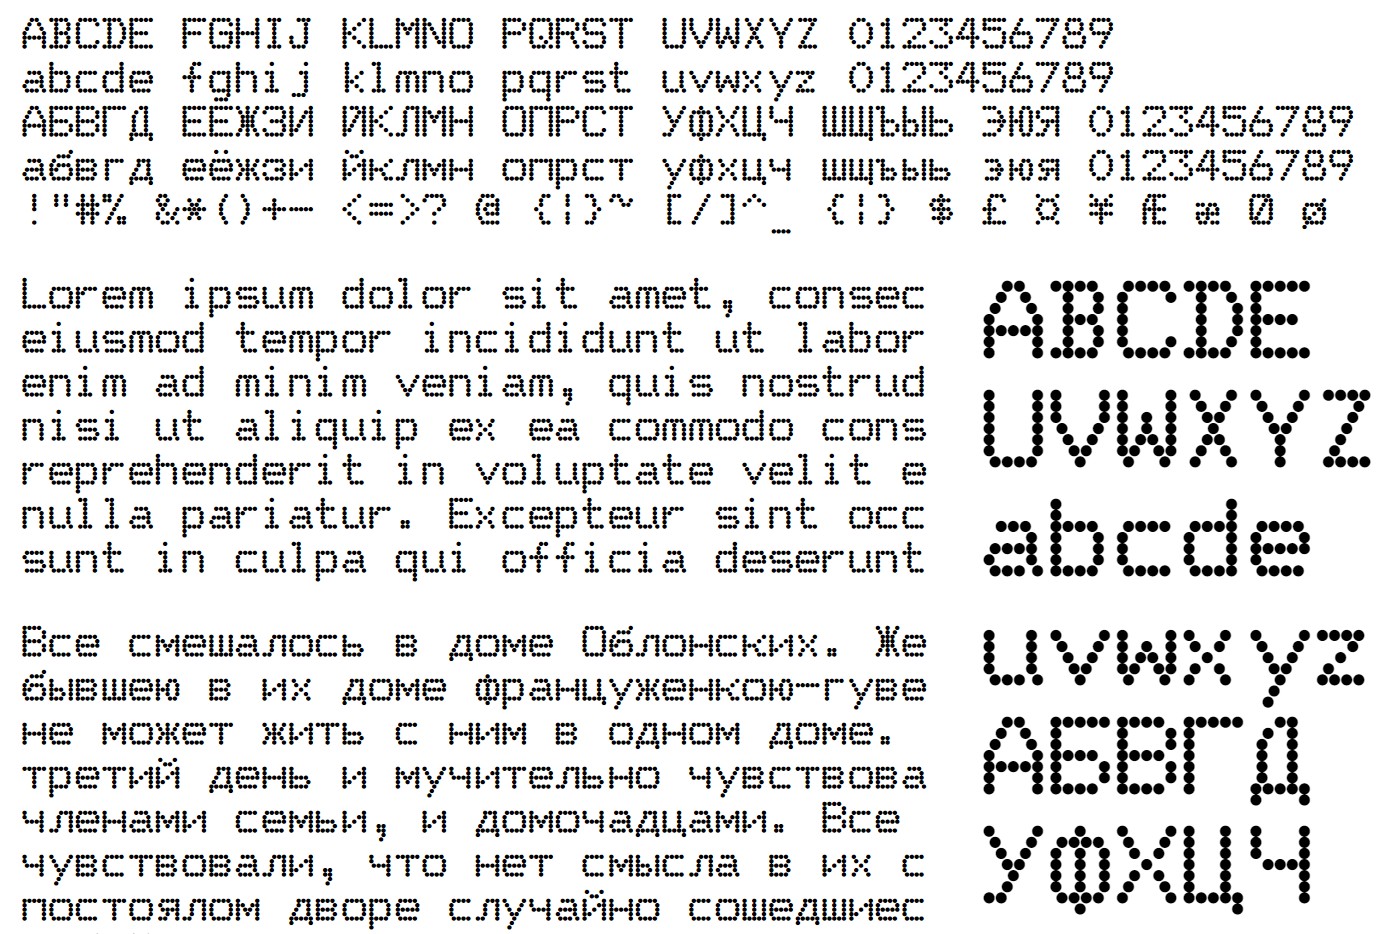
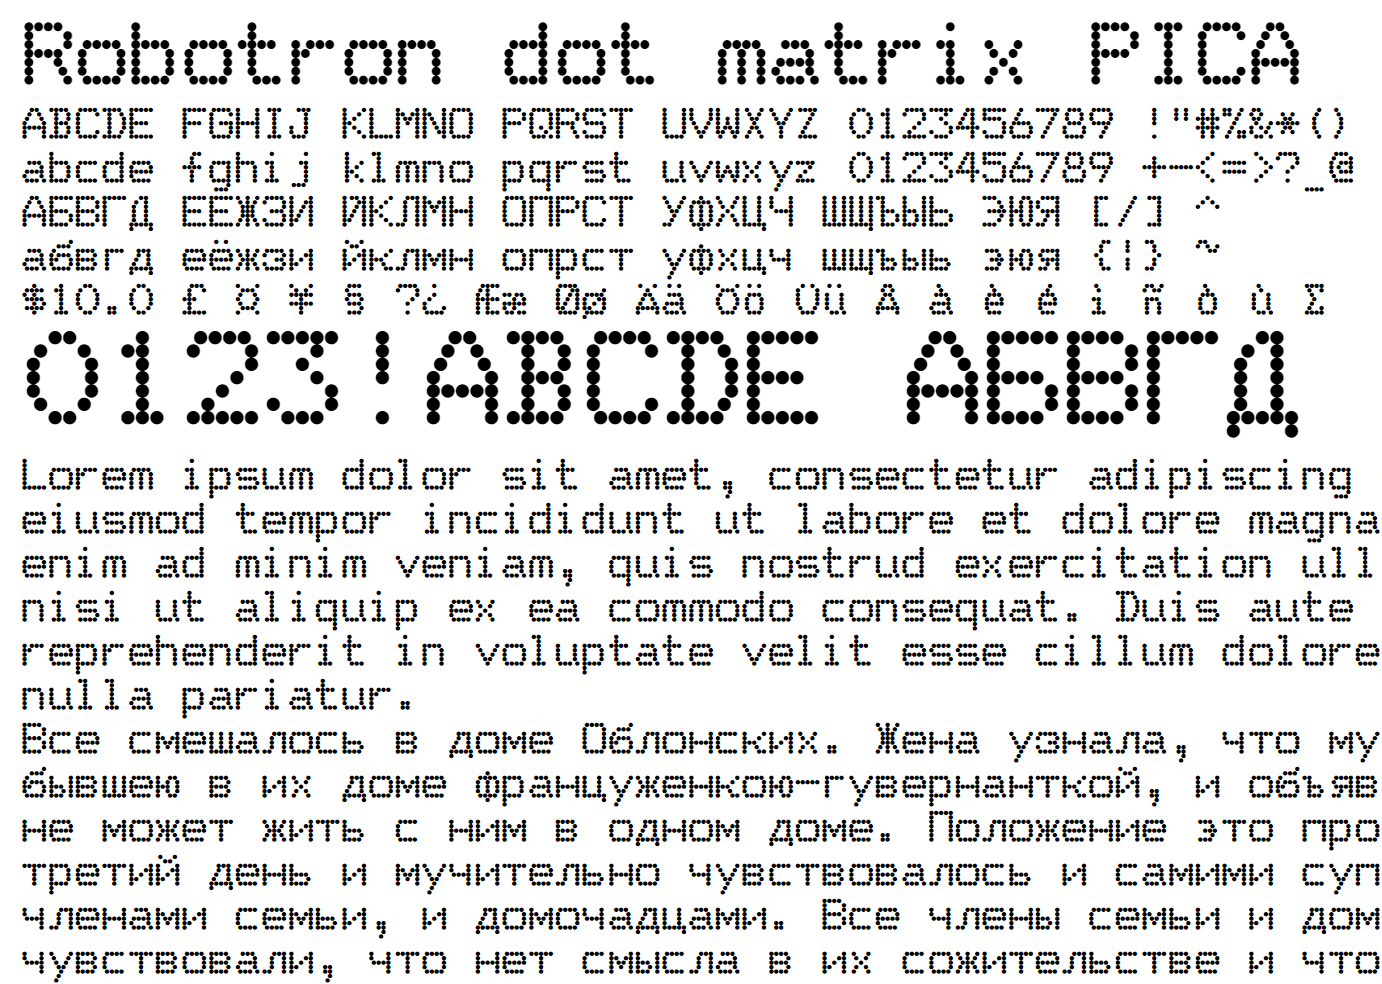
Updated, 185 glyphs now.

diff --git a/test-woff.html b/test-woff.html
@@ -8,17 +8,20 @@
 </head>
 <body>
     <div style="font-family: robotronfont">
-        ABCDE FGHIJ KLMNO PQRST UVWXYZ 0123456789<br/>
-        abcde fghij klmno pqrst uvwxyz 0123456789<br/>
-        АБВГД ЕЁЖЗИ ЙКЛМН ОПРСТ УФХЦЧ ШЩЪЫЬ ЭЮЯ 0123456789<br/>
-        абвгд еёжзи йклмн опрст уфхцч шщъыь эюя 0123456789<br/>
-        !"#% &amp;*()+- &lt;=&gt;? @ {|}~ [/]^_ {|} $ &#163; &#164; &#165;
-        &#198; &#230; &#216; &#248;
-        <p>
-            Lorem ipsum dolor sit amet, consectetur adipiscing elit, sed do eiusmod tempor incididunt ut labore et dolore magna aliqua. Ut enim ad minim veniam, quis nostrud exercitation ullamco laboris nisi ut aliquip ex ea commodo consequat. Duis aute irure dolor in reprehenderit in voluptate velit esse cillum dolore eu fugiat nulla pariatur. Excepteur sint occaecat cupidatat non proident, sunt in culpa qui officia deserunt mollit anim id est laborum.
-        </p>
-        <p>
-            Все смешалось в доме Облонских. Жена узнала, что муж был в связи с бывшею в их доме француженкою-гувернанткой, и объявила мужу, что не может жить с ним в одном доме. Положение это продолжалось уже третий день и мучительно чувствовалось и самими супругами, и всеми членами семьи, и домочадцами. Все члены семьи и домочадцы чувствовали, что нет смысла в их сожительстве и что на каждом постоялом дворе случайно сошедшиеся люди более связаны между собой, чем они, члены семьи и домочадцы Облонских. Жена не выходила из своих комнат, мужа третий день не было дома.
-        </p>
+        <div style="font-size: 200%;">Robotron dot matrix PICA</div>
+        ABCDE FGHIJ KLMNO PQRST UVWXYZ 0123456789 !"#%&amp;*()<br/>
+        abcde fghij klmno pqrst uvwxyz 0123456789 +-&lt;=&gt;?_@<br/>
+        АБВГД ЕЁЖЗИ ЙКЛМН ОПРСТ УФХЦЧ ШЩЪЫЬ ЭЮЯ [/] ^<br/>
+        абвгд еёжзи йклмн опрст уфхцч шщъыь эюя {|} ~<br/>
+        $10.0 &#163; &#164; &#165; &#167; ?&#191;
+        &#198;&#230; &#216;&#248; &#196;&#228; &#214;&#246; &#220;&#252;
+        &#197; &#224; &#232; &#233; &#236; &#241; &#242; &#249; &#x2211;<br/>
+        <div style="font-size: 300%;">0123!ABCDE АБВГД</div>
+        <div>
+            Lorem ipsum dolor sit amet, consectetur adipiscing elit, sed do eiusmod tempor incididunt ut labore et dolore magna aliqua. Ut enim ad minim veniam, quis nostrud exercitation ullamco laboris nisi ut aliquip ex ea commodo consequat. Duis aute irure dolor in reprehenderit in voluptate velit esse cillum dolore eu fugiat nulla pariatur.
+        </div>
+        <div>
+            Все смешалось в доме Облонских. Жена узнала, что муж был в связи с бывшею в их доме француженкою-гувернанткой, и объявила мужу, что не может жить с ним в одном доме. Положение это продолжалось уже третий день и мучительно чувствовалось и самими супругами, и всеми членами семьи, и домочадцами. Все члены семьи и домочадцы чувствовали, что нет смысла в их сожительстве и что на каждом постоялом дворе случайно сошедшиеся люди более связаны между собой, чем они, члены семьи и домочадцы Облонских.
+        </div>
     </div>
 </body>

diff --git a/RobotronFontGen/RobotronFont.cpp b/RobotronFontGen/RobotronFont.cpp
@@ -1662,6 +1662,46 @@ unsigned short RobotronFont[] =
     0x0000,  // .........
     0x0000,  // .........
 // 198
+    0x0054,  // ..X.X.X..
+    0x0002,  // .X.......
+    0x0054,  // ..X.X.X..
+    0x0082,  // .X.....X.
+    0x0054,  // ..X.X.X..
+    0x0080,  // .......X.
+    0x0054,  // ..X.X.X..
+    0x0000,  // .........
+    0x0000,  // .........
+// 199
+    0x0010,  // ....X....
+    0x0000,  // .........
+    0x0010,  // ....X....
+    0x0004,  // ..X......
+    0x0001,  // X........
+    0x0101,  // X.......X
+    0x00aa,  // .X.X.X.X.
+    0x0000,  // .........
+    0x0000,  // .........
+// 200
+    0x0082,  // .X.....X.
+    0x0010,  // ....X....
+    0x0028,  // ...X.X...
+    0x0044,  // ..X...X..
+    0x0082,  // .X.....X.
+    0x0155,  // X.X.X.X.X
+    0x0101,  // X.......X
+    0x0000,  // .........
+    0x0000,  // .........
+// 201
+    0x0028,  // ...X.X...
+    0x0044,  // ..X...X..
+    0x0028,  // ...X.X...
+    0x0044,  // ..X...X..
+    0x0082,  // .X.....X.
+    0x0155,  // X.X.X.X.X
+    0x0101,  // X.......X
+    0x0000,  // .........
+    0x0000,  // .........
+// 202
     0x0154,  // ..X.X.X.X
     0x0012,  // .X..X....
     0x0011,  // X...X....
@@ -1671,7 +1711,47 @@ unsigned short RobotronFont[] =
     0x0151,  // X...X.X.X
     0x0000,  // .........
     0x0000,  // .........
-// 199
+// 203
+    0x0101,  // X.......X
+    0x0054,  // ..X.X.X..
+    0x0082,  // .X.....X.
+    0x0101,  // X.......X
+    0x0101,  // X.......X
+    0x0082,  // .X.....X.
+    0x0054,  // ..X.X.X..
+    0x0000,  // .........
+    0x0000,  // .........
+// 204
+    0x0044,  // ..X...X..
+    0x0101,  // X.......X
+    0x0101,  // X.......X
+    0x0101,  // X.......X
+    0x0101,  // X.......X
+    0x0082,  // .X.....X.
+    0x0054,  // ..X.X.X..
+    0x0000,  // .........
+    0x0000,  // .........
+// 205
+    0x0008,  // ...X.....
+    0x0010,  // ....X....
+    0x0054,  // ..X.X.X..
+    0x0080,  // .......X.
+    0x00aa,  // .X.X.X.X.
+    0x0081,  // X......X.
+    0x012a,  // .X.X.X..X
+    0x0000,  // .........
+    0x0000,  // .........
+// 206
+    0x0044,  // ..X...X..
+    0x0000,  // .........
+    0x0054,  // ..X.X.X..
+    0x0080,  // .......X.
+    0x00aa,  // .X.X.X.X.
+    0x0081,  // X......X.
+    0x012a,  // .X.X.X..X
+    0x0000,  // .........
+    0x0000,  // .........
+// 207
     0x0000,  // .........
     0x0000,  // .........
     0x00a5,  // X.X..X.X.
@@ -1679,6 +1759,96 @@ unsigned short RobotronFont[] =
     0x0155,  // X.X.X.X.X
     0x0011,  // X...X....
     0x014a,  // .X.X..X.X
+    0x0000,  // .........
+    0x0000,  // .........
+// 208
+    0x0008,  // ...X.....
+    0x0010,  // ....X....
+    0x0054,  // ..X.X.X..
+    0x0082,  // .X.....X.
+    0x00aa,  // .X.X.X.X.
+    0x0002,  // .X.......
+    0x0054,  // ..X.X.X..
+    0x0000,  // .........
+    0x0000,  // .........
+// 209
+    0x0020,  // .....X...
+    0x0010,  // ....X....
+    0x0054,  // ..X.X.X..
+    0x0082,  // .X.....X.
+    0x00aa,  // .X.X.X.X.
+    0x0002,  // .X.......
+    0x0054,  // ..X.X.X..
+    0x0000,  // .........
+    0x0000,  // .........
+// 210
+    0x0004,  // ..X......
+    0x0008,  // ...X.....
+    0x0000,  // .........
+    0x000a,  // .X.X.....
+    0x0008,  // ...X.....
+    0x0008,  // ...X.....
+    0x002a,  // .X.X.X...
+    0x0000,  // .........
+    0x0000,  // .........
+// 211
+    0x008a,  // .X.X...X.
+    0x0051,  // X...X.X..
+    0x0000,  // .........
+    0x002a,  // .X.X.X...
+    0x0042,  // .X....X..
+    0x0042,  // .X....X..
+    0x0042,  // .X....X..
+    0x0000,  // .........
+    0x0000,  // .........
+// 211
+    0x0008,  // ...X.....
+    0x0010,  // ....X....
+    0x0054,  // ..X.X.X..
+    0x0082,  // .X.....X.
+    0x0082,  // .X.....X.
+    0x0082,  // .X.....X.
+    0x0054,  // ..X.X.X..
+    0x0000,  // .........
+    0x0000,  // .........
+// 212
+    0x0044,  // ..X...X..
+    0x0000,  // .........
+    0x0054,  // ..X.X.X..
+    0x0082,  // .X.....X.
+    0x0082,  // .X.....X.
+    0x0082,  // .X.....X.
+    0x0054,  // ..X.X.X..
+    0x0000,  // .........
+    0x0000,  // .........
+// 213
+    0x0008,  // ...X.....
+    0x0010,  // ....X....
+    0x0082,  // .X.....X.
+    0x0082,  // .X.....X.
+    0x0082,  // .X.....X.
+    0x0082,  // .X.....X.
+    0x0128,  // ...X.X..X
+    0x0000,  // .........
+    0x0000,  // .........
+// 214
+    0x0044,  // ..X...X..
+    0x0000,  // .........
+    0x0082,  // .X.....X.
+    0x0082,  // .X.....X.
+    0x0082,  // .X.....X.
+    0x0082,  // .X.....X.
+    0x0128,  // ...X.X..X
+    0x0000,  // .........
+    0x0000,  // .........
+// 215
+    0x00aa,  // .X.X.X.X.
+    0x0084,  // ..X....X.
+    0x0008,  // ...X.....
+    0x0010,  // ....X....
+    0x0008,  // ...X.....
+    0x0084,  // ..X....X.
+    0x00aa,  // .X.X.X.X.
     0x0000,  // .........
     0x0000,  // .........
 };

diff --git a/RobotronFontGen/RobotronFontGen.cpp b/RobotronFontGen/RobotronFontGen.cpp
@@ -186,15 +186,32 @@ static GlyphDescs[] =
     { "pound sign", "&#163;" },
     { "currency sign", "&#164;" },
     { "yen sign", "&#165;" },
+    { "section", "&#167;" },
+    { "inverted ?", "&#191;" },
+    { "A-umlaut", "&#196;" },
+    { "A-ring", "&#197;" },
     { "AElig", "&#198;" },
+    { "O-umlaut", "&#214;" },
+    { "U-umlaut", "&#220;" },
+    { "a-grave", "&#224;" },
+    { "a-umlaut", "&#228;" },
     { "aelig", "&#230;" },
+    { "e-grave", "&#232;" },
+    { "e-acute", "&#233;" },
+    { "i-grave", "&#236;" },
+    { "n-tilde", "&#241;" },
+    { "o-grave", "&#242;" },
+    { "o-umlaut", "&#246;" },
+    { "u-grave", "&#249;" },
+    { "u-umlaut", "&#252;" },
+    { "Sum", "&#x2211;" },
 };
 
 int main(int argc, char* argv[])
 {
     std::cerr << "RobotronFontGen utility  by Nikita Zimin  " << __DATE__ << " " << __TIME__ << std::endl;
 
-    std::ofstream m_output("robotronfont.svg");
+    std::ofstream m_output("..\\robotronfont.svg");
 
     float scale = 10.0f;
     float fontHorizAdvX = 72 * scale;  // The default horizontal advance after rendering a glyph in horizontal orientation
@@ -213,8 +230,8 @@ int main(int argc, char* argv[])
 
     m_output << "<font id=\"RobotronFont\" horiz-adv-x=\"" << fontHorizAdvX << "\">" << std::endl;
 
-    m_output << "<font-face font-family=\"Robotron Dot Matrix\" font-weight=\"normal\" font-style=\"normal\" "
-        << "units-per-em=\"" << fontUnitsPerEm << "\" cap-height=\"" << fontCapHeight << "\" "
+    m_output << "<font-face font-family=\"Robotron Dot Matrix\" font-weight=\"normal\" font-style=\"normal\" " << std::endl
+        << "    units-per-em=\"" << fontUnitsPerEm << "\" cap-height=\"" << fontCapHeight << "\" "
         << "x-height=\"" << fontXHeight << "\" ascent=\"" << fontAscent << "\" descent=\"" << fontDescent << "\" "
         << "widths=\"" << fontUnitsPerEm << "\">" << std::endl;
     m_output << "<font-face-src><font-face-name name=\"Robotron Dot Matrix PICA\"/></font-face-src>" << std::endl;
@@ -224,6 +241,7 @@ int main(int argc, char* argv[])
 
     m_output << "<glyph glyph-name=\"space\" unicode=\" \" horiz-adv-x=\"" << fontHorizAdvX << "\"/>" << std::endl;
 
+    int glyphcount = 1;
     for (int symbol = 1; symbol < sizeof(GlyphDescs) / sizeof(GlyphDescStruct); symbol++)
     {
         const GlyphDescStruct* pGlyph = GlyphDescs + symbol;
@@ -252,6 +270,7 @@ int main(int argc, char* argv[])
             y -= ystep;
         }
         m_output << "\"/>" << std::endl;
+        glyphcount++;
     }
 
     m_output << "</font>" << std::endl;
@@ -267,6 +286,8 @@ int main(int argc, char* argv[])
     m_output << "</svg>" << std::endl;
 
     m_output.close();
+
+    std::cerr << "Total glyph count: " << glyphcount << std::endl;
 
     return 0;
 }

diff --git a/README.md b/README.md
@@ -1,4 +1,9 @@
-# robotron-dotmatrix-font - Restoring font from Robotron dot matrix printer ROM
+# robotron-dotmatrix-font - Robotron dot matrix font restored from the printer ROM
+
+The font contains 185 glyphs:
+ - ASCII
+ - Cyrillic letters (but Ё without dots)
+ - some Latin1 symbols
 
 ![](https://github.com/nzeemin/robotron-dotmatrix-font/blob/master/test-woff.png)
 
